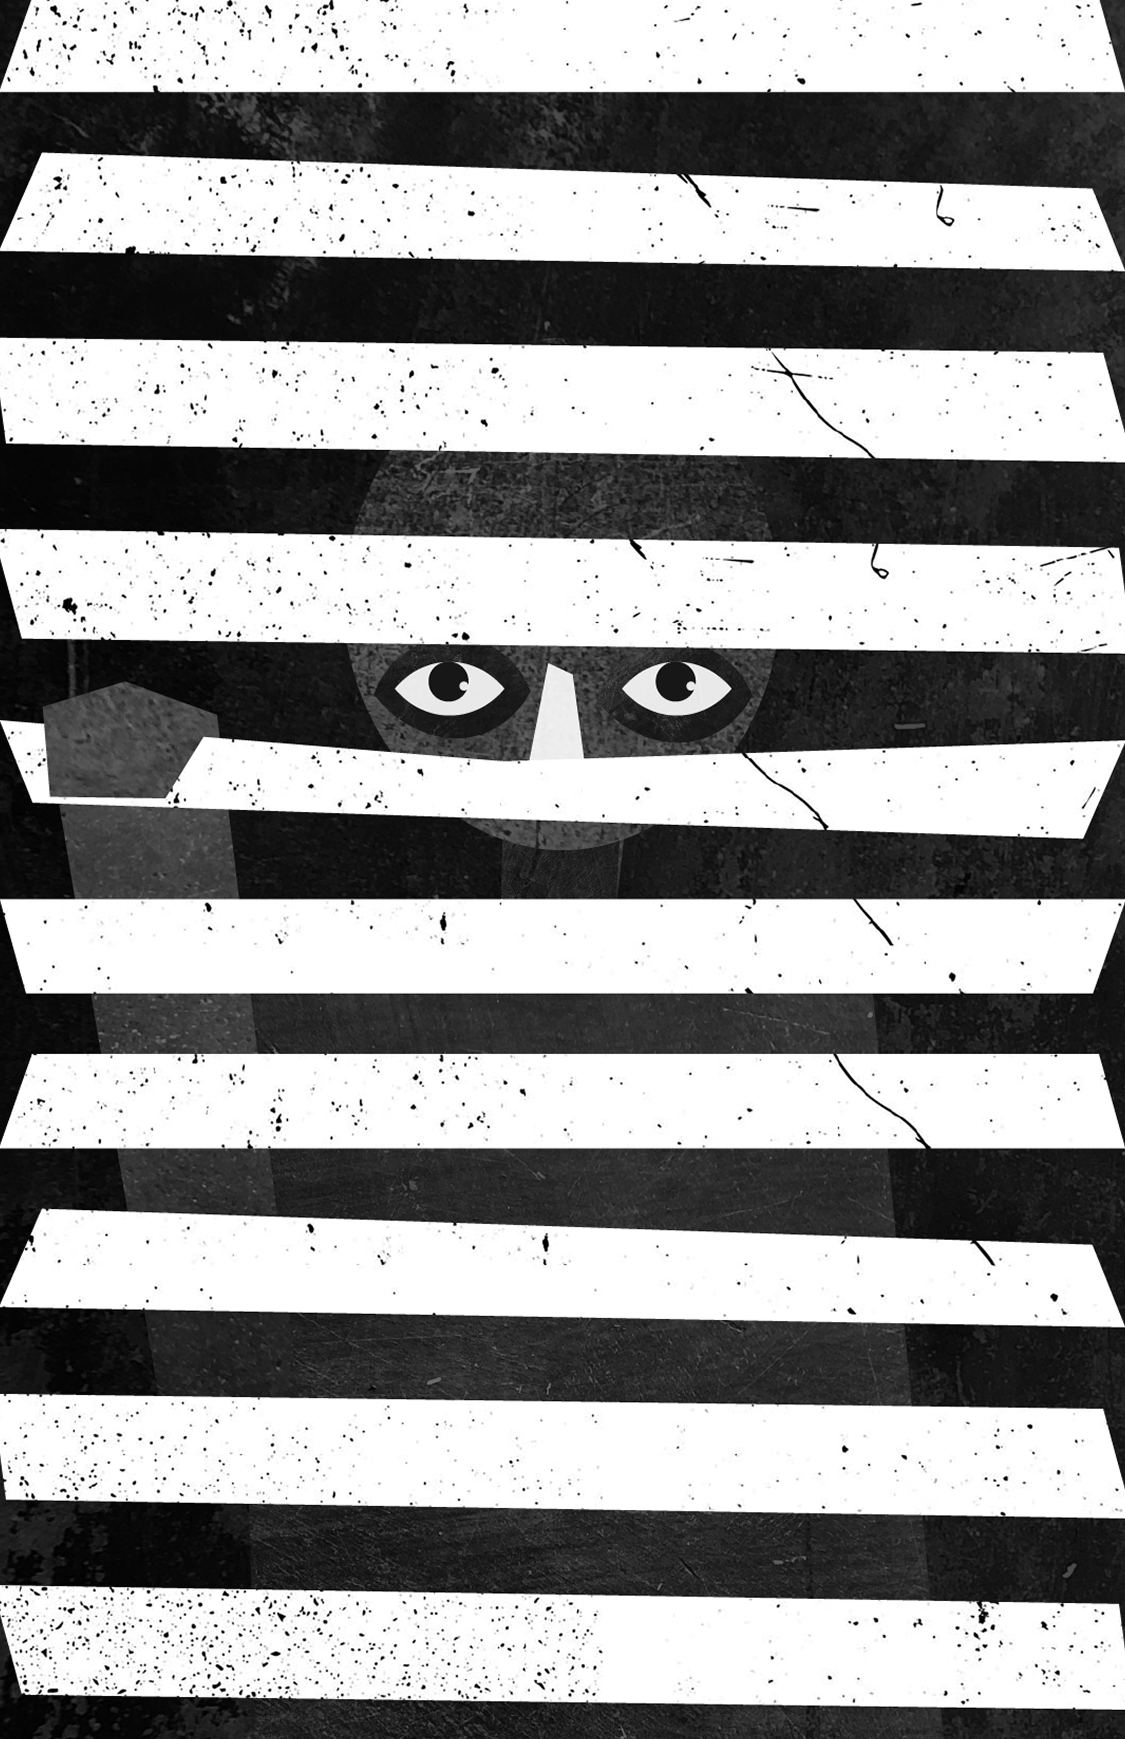
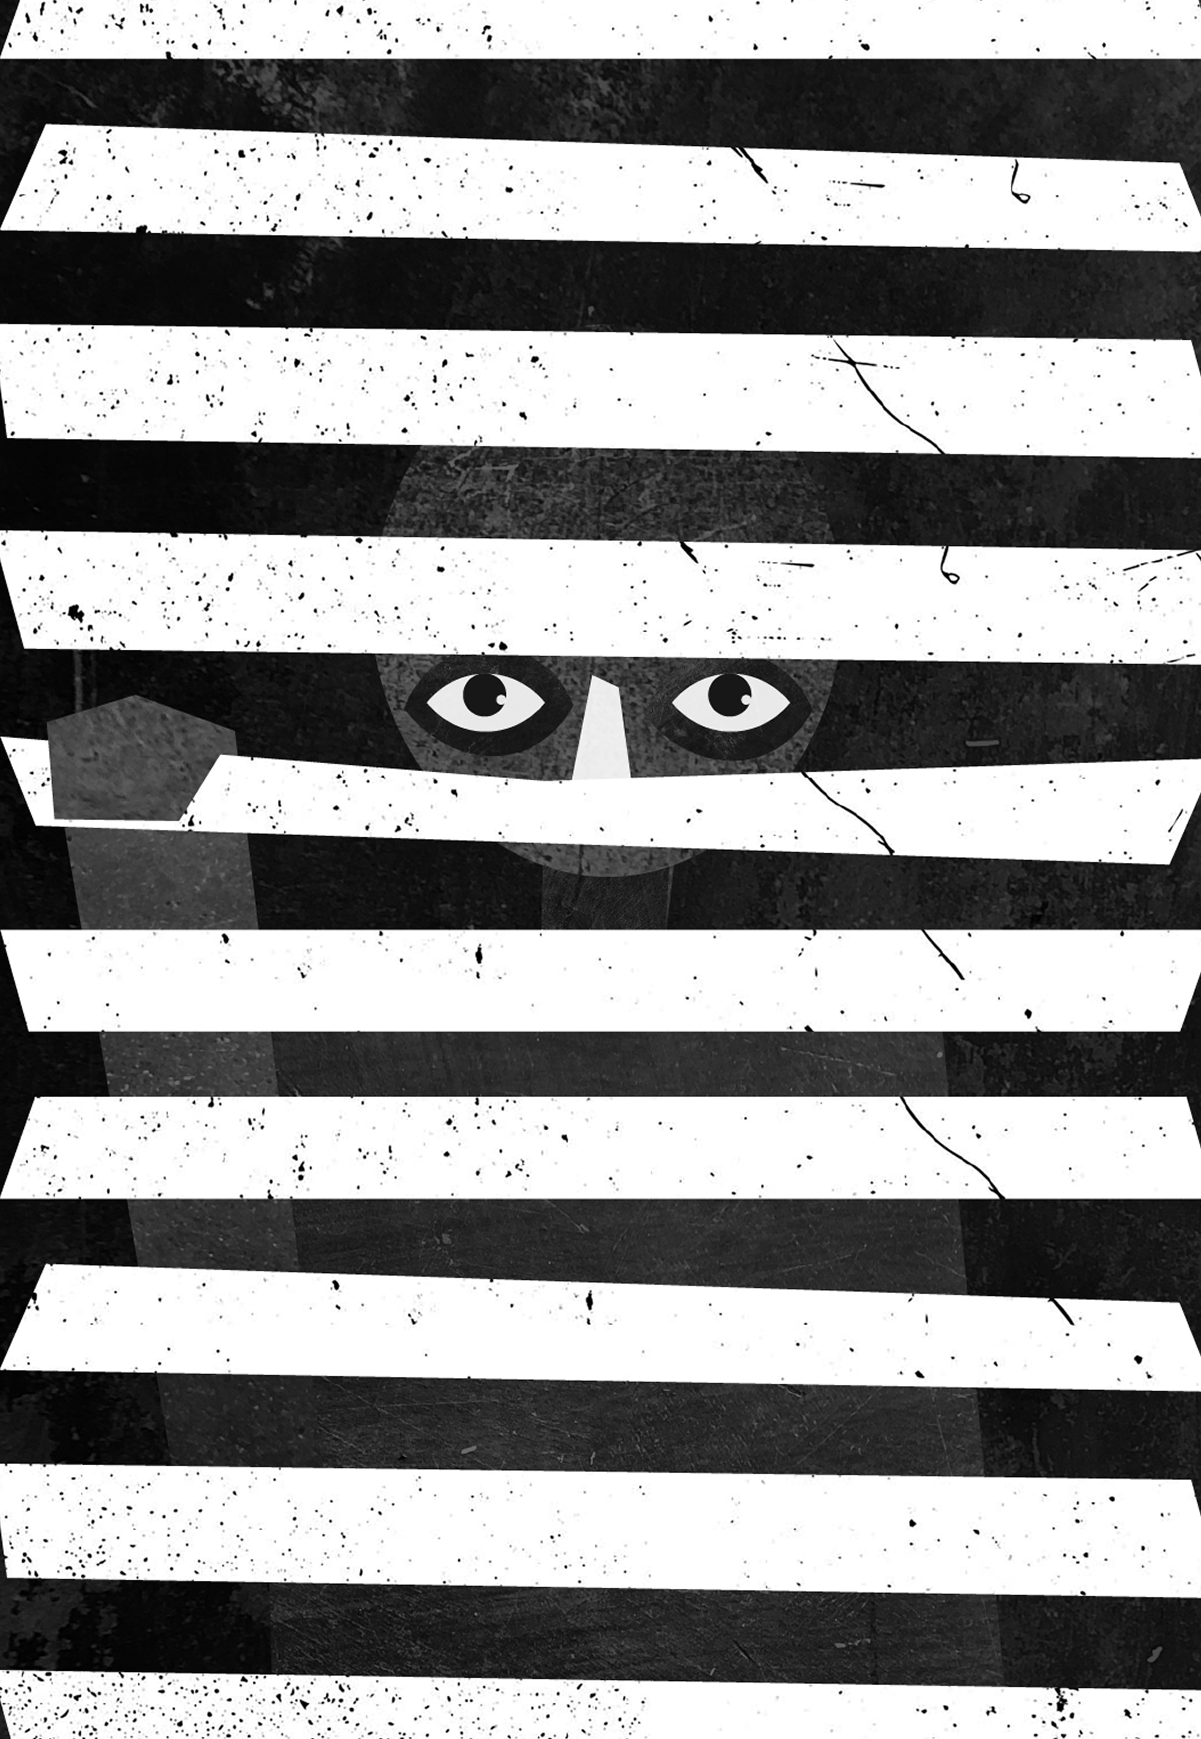
mod pag

diff --git a/fomo.html b/fomo.html
@@ -53,7 +53,7 @@
       <div class="row g-0">
         <div class="col-12 col-lg-6 ">
           <div class="topic_left topic">
-            <div class="d-flex flex-column justify-content-between ">
+            <div class="d-flex flex-column justify-content-between  ">
 
               <div class="pag-text">
                 <h1>FOMO: la fobia del nuovo millennio.</h1>

diff --git a/hikikomori.html b/hikikomori.html
@@ -71,7 +71,7 @@
 
 
                 <div class="col-12 col-lg-6 ">
-                    <div class="topic_left">
+                    <div class="topic_left h-100">
                         <div class=" top-img top_foto">
                             <img src="images/Hikikomori/illustrazioni/hikikomori.png" alt="occhio illustrazione">
                         </div>

diff --git a/ansia_sociale.html b/ansia_sociale.html
@@ -106,7 +106,7 @@
                                 </p>
                             </div>
 
-                            <div class="pag-text">
+                            <div class="pag-text px-0">
 
                                 <div class="link-lan_4 link-lan" >
                                     <a

diff --git a/style.css b/style.css
@@ -1031,7 +1031,6 @@ body {
 
 .top-img.top_foto img{
   width: 100%;
-  height: 100vh;
   object-fit: cover;
   object-position: center;
   display: block;
